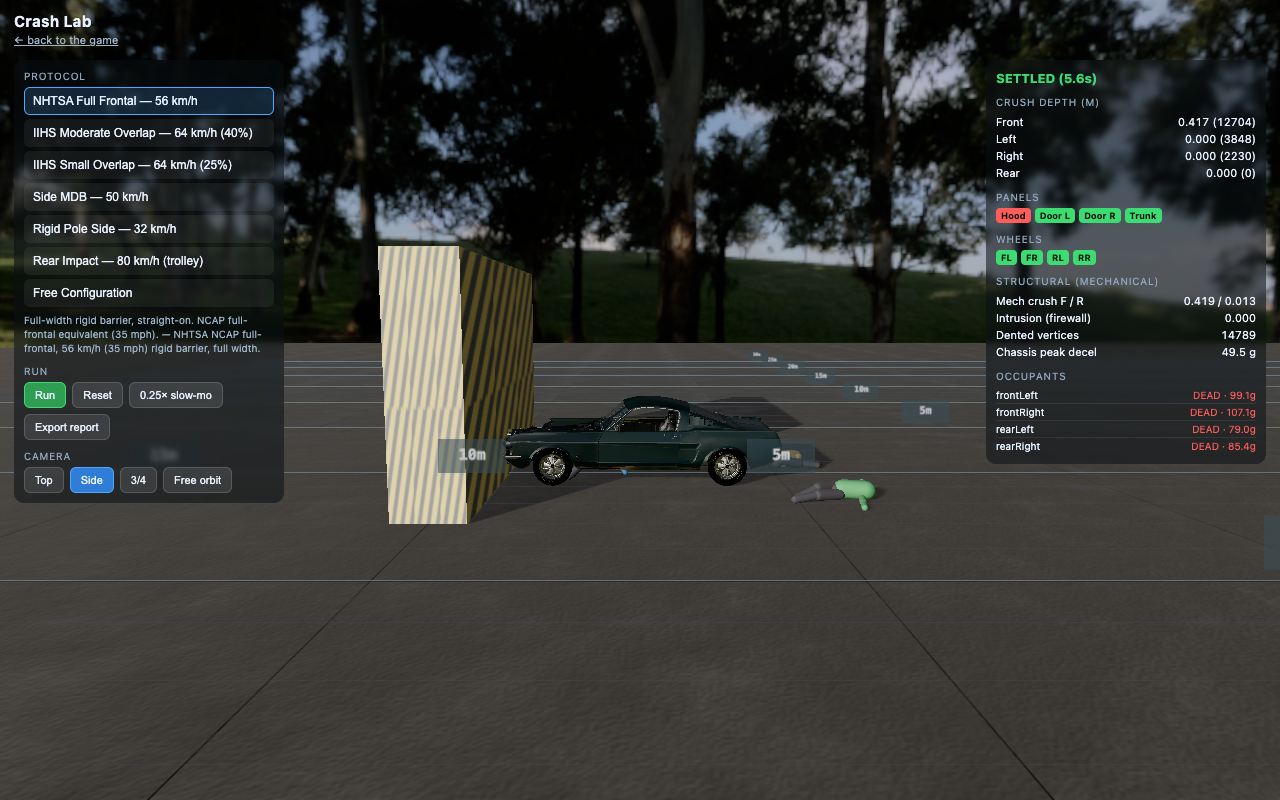
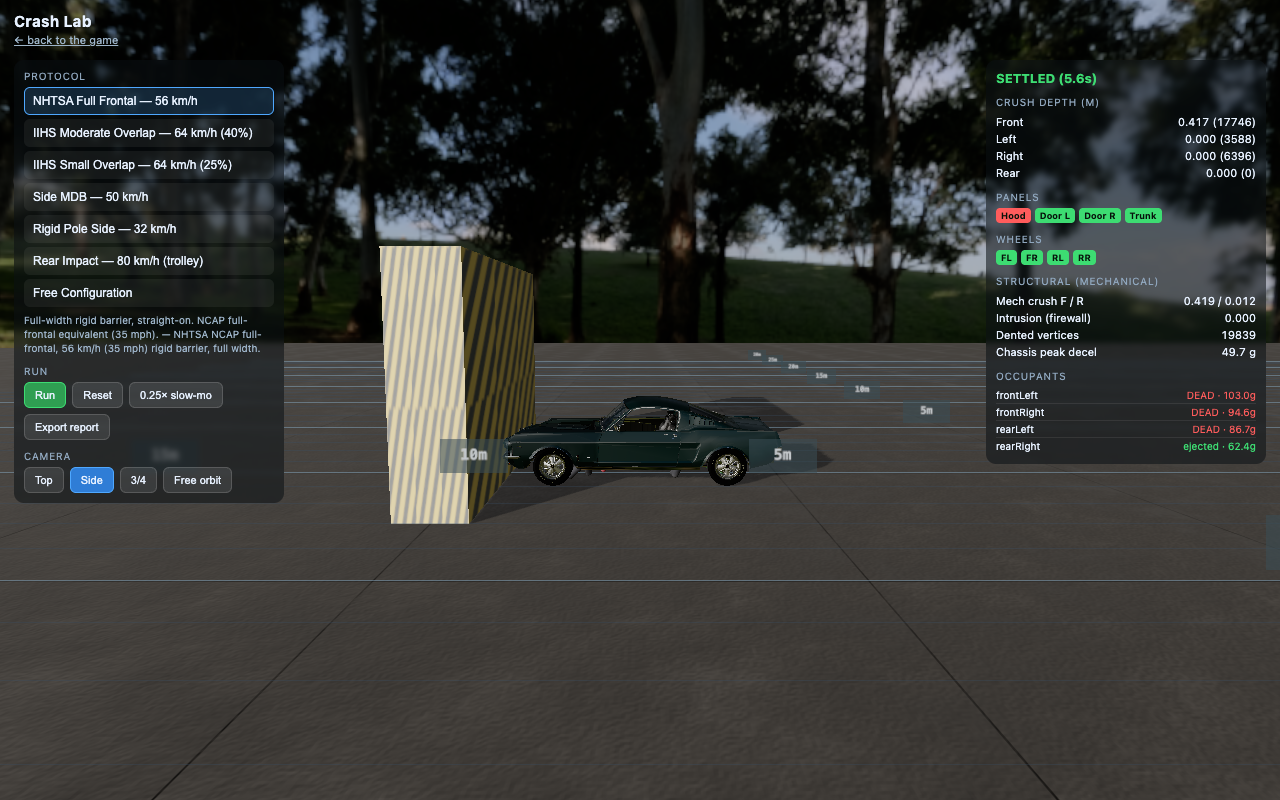
crush M3: panel collision follows the dents (rate-limited setHull refresh) + car-inward hit normals
M3 (crush-architecture.md §B): system.ts refreshPanelHulls -- when a panel's accumulated cosmetic
crumple moves its deformed-mesh AABB past 0.06m, the panel's collision hull is rebuilt in place via
Shape.setHull (M0b machinery), rate-limited exactly per spec (>=30 fixed steps between one panel's
rebuilds, <=1 panel per step; finer 0.02m follow-up residual so the hull CONVERGES on a
still-deepening dent). REBUILD RULE, measured evolution from the spec's AABB sketch: a convex hull
cannot hold a bowl -- rebuilding from the raw deformed AABB only thickens the slab toward the dent
(measured: a 0.12m hood dent left the top face byte-identical), and an all-vertex mean dilutes to
nothing (-0.011m) -- so the slab follows the mean deflection of the DENTED vertices (-0.033m for the
same dent), which is what the contact patch on the crushed region feels. Outward growth capped,
per-axis extent floored, setHull never recomputes mass.

MEASURED CORRECTION uncovered by the M3 probe: box3d reports the manifold normal shape-A -> shape-B,
and the crumple model's "+normal caves inward" convention only held when the car was shape B (the
calibrated wall path). A box dropped ON the hood reported a=hood b=box n=(0,+1,0) and the crumple
BULGED the panel 0.12m upward toward its striker. The single hit drain now orients every normal
car-inward (flip when the car side is shape A); welds.ts only reads |normal.y|, so the
[…]

diff --git a/game/src/damage/system.ts b/game/src/damage/system.ts
@@ -22,6 +22,11 @@ import {
 } from './crumple';
 import {
 	GLASS_PANE_SHATTER_MIN_APPROACH_MS,
+	PANEL_HULL_GROW_CAP_M,
+	PANEL_HULL_MIN_HALF_M,
+	PANEL_HULL_REFRESH_DELTA_M,
+	PANEL_HULL_REFRESH_FOLLOWUP_DELTA_M,
+	PANEL_HULL_REFRESH_MIN_STEPS,
 	PANEL_DESPAWN_AFTER_S,
 	PANEL_DESPAWN_DISTANCE_M,
 	PANEL_HIT_EVENTS_DISABLE_AFTER_S,
@@ -100,6 +105,14 @@ export interface DamageSystem {
 	 * foreignMassForHit() + welds.ts's massAwareDamageFactor().
 	 */
 	readonly foreignMasses: Map<number, number>;
+	/** @internal crush M3 (crush-architecture.md §B) panel hull-refresh bookkeeping -- see
+	 * refreshPanelHulls(). `refreshes` doubles as the observable "collision followed the dents"
+	 * counter the sim test asserts. */
+	readonly panelHull: {
+		fixedStep: number;
+		perPanel: Record<PanelKey, { lastRefreshStep: number; meshAabb0: { min: V3; max: V3 } | null; aabbAtRefresh: { min: V3; max: V3 } | null }>;
+		refreshes: Record<PanelKey, number>;
+	};
 }
 
 /** Registers (or updates) a foreign body's effective mass so contacts against it attenuate car damage.
@@ -181,6 +194,12 @@ export function createDamageSystem(
 	const carMassKg = vehicle.chassis.getMass() + totalPanelMassKg(vehicle.panels) + Object.values(vehicle.wheels).reduce((sum, w) => sum + w.body.getMass(), 0);
 	const wheelOverThresholdSteps = {} as Record<WheelKey, number>;
 	for (const key of Object.keys(vehicle.wheels) as WheelKey[]) wheelOverThresholdSteps[key] = 0;
+	const perPanel = {} as DamageSystem['panelHull']['perPanel'];
+	const refreshes = {} as Record<PanelKey, number>;
+	for (const key of PANEL_KEYS) {
+		perPanel[key] = { lastRefreshStep: -Infinity, meshAabb0: null, aabbAtRefresh: null };
+		refreshes[key] = 0;
+	}
 	return {
 		vehicle,
 		panels: vehicle.panels,
@@ -190,6 +209,7 @@ export function createDamageSystem(
 		timeSec: 0,
 		wheelOverThresholdSteps,
 		foreignMasses,
+		panelHull: { fixedStep: 0, perPanel, refreshes },
 	};
 }
 
@@ -243,6 +263,117 @@ function shatterGlassPane(system: DamageSystem, paneKey: GlassPaneKey, viaCrumpl
 }
 
 /** Advances the damage system by one fixed step. Call AFTER stepVehicle()+world.step(). */
+// ---------------------------------------------------------------------------------------------
+// CRUSH M3 -- collision follows the dents (crush-architecture.md §B): once a panel's accumulated
+// cosmetic crumple has moved its deformed-mesh AABB far enough (the TRIGGER -- the collision-visible
+// part of the spec's max-vertex delta; purely in-plane vertex slide leaves any convex proxy
+// unchanged and is correctly ignored), rebuild that panel's collision hull in place via Shape.setHull
+// (M0b machinery). REBUILD RULE (measured evolution from the spec's AABB sketch): the slab follows
+// the mean deflection of the DENTED vertices per axis -- the pristine box's faces each shift by the
+// mean offset component over vertices that have genuinely moved (>1cm). A convex hull cannot hold a
+// bowl: rebuilding from the raw deformed AABB only THICKENS the slab toward the dent (the rim pins
+// the far face -- measured: a 0.12m hood dent left the top face byte-identical and a probe rested
+// at the pristine height), and an ALL-vertex mean is diluted to nothing by the undented rim
+// (measured -0.011m for a 12/36-vertex dent). The dented-region mean (measured -0.033m for the
+// same dent) is what the contact patch on the crushed region actually feels, so debris/bodies
+// genuinely rest INTO dented panels (sim/panel-hull-refresh.test.mjs) at the cost of the undented
+// rim's collision sinking by the same bounded amount -- the right trade for a 5cm cosmetic slab.
+// Rate limits per spec §B: a panel rebuilds >=PANEL_HULL_REFRESH_MIN_STEPS apart and at most ONE
+// panel rebuilds per fixed step. Outward growth capped, per-axis extent floored (tuning constants).
+// setHull never recomputes body mass, so panel mass/inertia stay stable.
+// ---------------------------------------------------------------------------------------------
+function refreshPanelHulls(system: DamageSystem): void {
+	const step = system.panelHull.fixedStep;
+	for (const key of PANEL_KEYS) {
+		const panel = system.panels[key];
+		if (panel.despawned || !panel.shape.isValid()) continue;
+		const st = system.panelHull.perPanel[key];
+		if (step - st.lastRefreshStep < PANEL_HULL_REFRESH_MIN_STEPS) continue;
+		// Deformed-mesh AABB (trigger) + mean offset per axis (rebuild), panel-local -- panel meshes
+		// register in their own body's space.
+		let count = 0;
+		let dentedCount = 0;
+		const min = { x: Infinity, y: Infinity, z: Infinity };
+		const max = { x: -Infinity, y: -Infinity, z: -Infinity };
+		const meanOff = { x: 0, y: 0, z: 0 };
+		for (const mesh of system.registry.meshes) {
+			if (mesh.kind !== 'panel' || mesh.attachedTo !== key) continue;
+			for (let v = 0; v < mesh.vertexCount; v++) {
+				const ox = mesh.offsets[v * 3];
+				const oy = mesh.offsets[v * 3 + 1];
+				const oz = mesh.offsets[v * 3 + 2];
+				const x = mesh.basePositions[v * 3] + ox;
+				const y = mesh.basePositions[v * 3 + 1] + oy;
+				const z = mesh.basePositions[v * 3 + 2] + oz;
+				if (x < min.x) min.x = x;
+				if (y < min.y) min.y = y;
+				if (z < min.z) min.z = z;
+				if (x > max.x) max.x = x;
+				if (y > max.y) max.y = y;
+				if (z > max.z) max.z = z;
+				if (ox * ox + oy * oy + oz * oz > 0.0001) {
+					meanOff.x += ox;
+					meanOff.y += oy;
+					meanOff.z += oz;
+					dentedCount++;
+				}
+				count++;
+			}
+		}
+		if (count === 0) continue;
+		if (dentedCount > 0) {
+			meanOff.x /= dentedCount;
+			meanOff.y /= dentedCount;
+			meanOff.z /= dentedCount;
+		}
+		if (!st.meshAabb0) {
+			// First sighting = the pristine mesh AABB (deltas are measured against this) -- captured
+			// lazily so the browser's real GLB meshes and the sim harness's grid proxies both work.
+			st.meshAabb0 = { min: { ...min }, max: { ...max } };
+			st.aabbAtRefresh = { min: { ...min }, max: { ...max } };
+			continue;
+		}
+		const ref = st.aabbAtRefresh!;
+		const deltaSinceRefresh = Math.max(
+			Math.abs(min.x - ref.min.x), Math.abs(min.y - ref.min.y), Math.abs(min.z - ref.min.z),
+			Math.abs(max.x - ref.max.x), Math.abs(max.y - ref.max.y), Math.abs(max.z - ref.max.z),
+		);
+		const triggerM = system.panelHull.refreshes[key] > 0 ? PANEL_HULL_REFRESH_FOLLOWUP_DELTA_M : PANEL_HULL_REFRESH_DELTA_M;
+		if (deltaSinceRefresh < triggerM) continue;
+		// Rebuild: pristine collision box, each axis' faces shifted by the mesh's MEAN offset along
+		// that axis (see the section doc), shift capped at the outward-growth bound.
+		const he = panel.halfExtents;
+		const clampShift = (v: number): number => Math.max(-PANEL_HULL_GROW_CAP_M - 2 * he.y, Math.min(PANEL_HULL_GROW_CAP_M + 2 * he.y, v));
+		const lo = {
+			x: -he.x + clampShift(meanOff.x),
+			y: -he.y + clampShift(meanOff.y),
+			z: -he.z + clampShift(meanOff.z),
+		};
+		const hi = {
+			x: he.x + clampShift(meanOff.x),
+			y: he.y + clampShift(meanOff.y),
+			z: he.z + clampShift(meanOff.z),
+		};
+		for (const axis of ['x', 'y', 'z'] as const) {
+			if (hi[axis] - lo[axis] < 2 * PANEL_HULL_MIN_HALF_M) {
+				const mid = (hi[axis] + lo[axis]) / 2;
+				lo[axis] = mid - PANEL_HULL_MIN_HALF_M;
+				hi[axis] = mid + PANEL_HULL_MIN_HALF_M;
+			}
+		}
+		const pts = new Float32Array(24);
+		let i = 0;
+		for (const x of [lo.x, hi.x]) for (const y of [lo.y, hi.y]) for (const z of [lo.z, hi.z]) {
+			pts[i++] = x; pts[i++] = y; pts[i++] = z;
+		}
+		panel.shape.setHull(pts);
+		st.lastRefreshStep = step;
+		st.aabbAtRefresh = { min: { ...min }, max: { ...max } };
+		system.panelHull.refreshes[key]++;
+		return; // <=1 panel per fixed step
+	}
+}
+
 export function stepDamageSystem(system: DamageSystem, world: World, dt: number): void {
 	system.timeSec += dt;
 
@@ -292,11 +423,21 @@ export function stepDamageSystem(system: DamageSystem, world: World, dt: number)
 				else if (REAR_CHAIN_IDS.has(id)) coreHits.rearChain = true;
 			}
 		}
+		// CRUSH M3 MEASURED CORRECTION: box3d reports the manifold normal shape-A -> shape-B. The
+		// crumple model's displacement convention is "+normal caves the car INWARD", which holds when
+		// the CAR is shape B (the calibrated wall path: a frontal wall reports (0,0,-1) into the
+		// nose). When the car is shape A the raw normal points OUT of the car -- a box dropped ON the
+		// hood reported a=hood b=box n=(0,+1,0) and the unconditional +normal BULGED the panel upward
+		// 0.12m toward its striker (measured, crush-panel-refresh diag). Orient once here, at the
+		// single drain, so every downstream consumer sees a car-inward normal. (welds.ts only ever
+		// reads |normal.y|, so this flip cannot shift the direction-aware panel logic.)
+		const carIsA = CAR_ENTITY_IDS.has(c.userDataA) && !CAR_ENTITY_IDS.has(c.userDataB);
+		const nSign = carIsA ? -1 : 1;
 		hits.push({
 			userDataA: c.userDataA,
 			userDataB: c.userDataB,
 			point: { x: c.point.x, y: c.point.y, z: c.point.z },
-			normal: { x: c.normal.x, y: c.normal.y, z: c.normal.z },
+			normal: { x: c.normal.x * nSign, y: c.normal.y * nSign, z: c.normal.z * nSign },
 			approachSpeed: c.approachSpeed,
 			// Resolved ONCE here (the single hit drain) so crumple (below) and weld stress
 			// (stepWeldsAndWheels) weight this contact by the identical mass ratio. Undefined for a
@@ -360,6 +501,10 @@ export function stepDamageSystem(system: DamageSystem, world: World, dt: number)
 	for (const ev of stepSegmentYield(world, system.vehicle.chassis, system.vehicle.segments, coreHits)) {
 		system.emitter.emit({ type: 'segmentTorn', weld: ev.weld });
 	}
+
+	// ---- Crush M3: panel collision follows the dents (refreshPanelHulls' doc above). ----
+	system.panelHull.fixedStep++;
+	refreshPanelHulls(system);
 
 	// ---- Broken-panel lifecycle: disable hit events after N seconds, despawn after M seconds or
 	// beyond D meters from the chassis. ----

diff --git a/game/src/damage/damage-tuning.ts b/game/src/damage/damage-tuning.ts
@@ -377,3 +377,27 @@ export const CRUMPLE_PERF_NEAREST_EXEMPT_COUNT = 2;
 export const HULL_REBUILD_DENT_VOLUME_THRESHOLD = 0.02; // m^3 equivalent accumulated-displacement proxy
 export const HULL_REBUILD_MIN_INTERVAL_S = 2;
 export const HULL_REBUILD_MAX_COUNT = 3;
+
+// ---------------------------------------------------------------------------------------------
+// CRUSH M3 -- collision follows the dents (crush-architecture.md §B): rate-limited panel collision
+// hull refresh from the deformed panel mesh (Shape.setHull, the M0b runtime-geometry machinery).
+// ---------------------------------------------------------------------------------------------
+
+/** A panel's collision hull is rebuilt once its deformed-mesh AABB has moved this far (max single
+ * face component, m) since the hull's last rebuild (spec §B's ~0.06m max-vertex delta). */
+export const PANEL_HULL_REFRESH_DELTA_M = 0.06;
+/** Minimum fixed steps between one panel's hull rebuilds (spec §B: >=30 steps apart; additionally
+ * at most ONE panel is rebuilt per fixed step). */
+export const PANEL_HULL_REFRESH_MIN_STEPS = 30;
+/** Once a panel has rebuilt at least once, follow-up rebuilds track the still-deepening dent at
+ * this finer residual (still >=PANEL_HULL_REFRESH_MIN_STEPS apart) so the hull CONVERGES to the
+ * final dent instead of freezing one threshold-crossing behind it (measured: a 0.12m dent's first
+ * rebuild landed at the 0.06 crossing and the remaining growth never re-crossed a full 0.06). */
+export const PANEL_HULL_REFRESH_FOLLOWUP_DELTA_M = 0.02;
+/** A rebuilt face may bulge OUTWARD at most this far past the pristine collision box (dents pull
+ * faces inward; ripple bulges are real but bounded -- an unbounded outward rebuild could grow the
+ * collision proxy into neighbors). */
+export const PANEL_HULL_GROW_CAP_M = 0.05;
+/** Per-axis half-extent floor for a rebuilt hull (a fully-pancaked axis still needs a sliver of
+ * collision thickness for stable contacts). */
+export const PANEL_HULL_MIN_HALF_M = 0.01;
